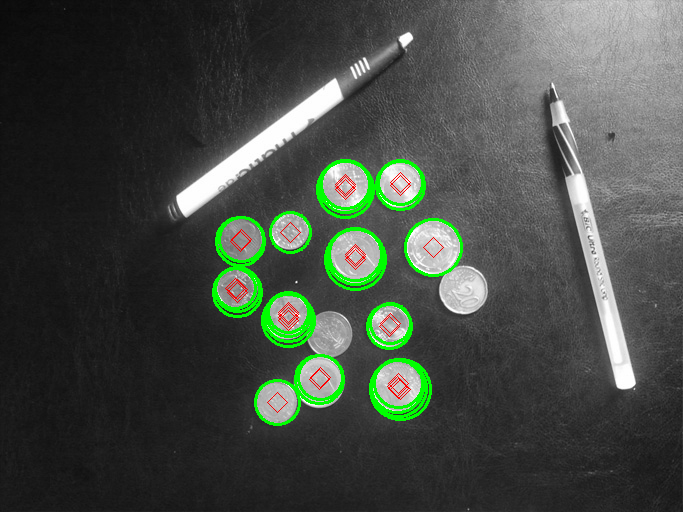
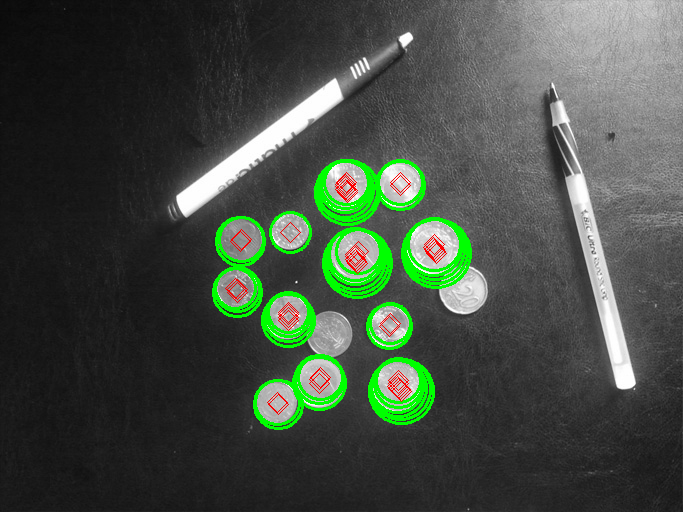
Hough circle transform

diff --git a/ps1_python/ps1.py b/ps1_python/ps1.py
@@ -18,14 +18,14 @@ if __name__ == '__main__':
     # Problem 1: Canny edge
     img_clean = cv2.GaussianBlur(img,(5,5),1)
     
-    img_sobelx = cv2.Sobel(img_clean,cv2.CV_64F,1,0,ksize=3)
-    img_sobely = cv2.Sobel(img_clean,cv2.CV_64F,0,1,ksize=3)
-    img_grad = cv2.Laplacian(img_clean,cv2.CV_64F)
-    img_dir = np.arctan2(img_sobely,img_sobelx)
+    # img_sobelx = cv2.Sobel(img_clean,cv2.CV_64F,1,0,ksize=3)
+    # img_sobely = cv2.Sobel(img_clean,cv2.CV_64F,0,1,ksize=3)
+    # img_grad = cv2.Laplacian(img_clean,cv2.CV_64F)
+    # img_dir = np.arctan2(img_sobely,img_sobelx)
     
-    plt.imshow(img_sobelx, cmap = 'gray', interpolation = 'bicubic')
-    plt.xticks([]), plt.yticks([])
-    plt.show()
+    # plt.imshow(img_sobelx, cmap = 'gray', interpolation = 'bicubic')
+    # plt.xticks([]), plt.yticks([])
+    # plt.show()
     
     img_edges = cv2.Canny(img, 100, 200)
     cv2.imwrite(os.path.join('output', 'ps1-1-a-1.png'), img_edges)
@@ -102,7 +102,7 @@ if __name__ == '__main__':
     cv2.imwrite(os.path.join('output', 'ps1-5-a-3.png'), H1)
     
     H2 = cv2.cvtColor(np.float32(img), cv2.COLOR_GRAY2RGB)
-    centers, radii = hough.find_circles(img_edges, np.arange(20,50,2))
+    centers, radii = hough.find_circles(img_edges, np.arange(20,35,2))
     for point, r in zip(centers, radii):
         x, y = point[0], point[1]
         cv2.drawMarker(H2, (int(y), int(x)), (0,0,255), cv2.MARKER_DIAMOND)
@@ -130,7 +130,7 @@ if __name__ == '__main__':
     img_edges = cv2.Canny(img_clean, 100, 200)
     
     H = cv2.cvtColor(np.float32(img), cv2.COLOR_GRAY2RGB)
-    centers, radii = hough.find_circles(img_edges, np.arange(20,30,2))
+    centers, radii = hough.find_circles(img_edges, np.arange(20,35,2))
     for point, r in zip(centers, radii):
         x, y = point[0], point[1]
         cv2.drawMarker(H, (int(y), int(x)), (0,0,255), cv2.MARKER_DIAMOND)
@@ -149,7 +149,7 @@ if __name__ == '__main__':
     filterPeaks = hough.filter_lines(peaks)
     
     H2 = cv2.cvtColor(np.float32(img), cv2.COLOR_GRAY2RGB)
-    centers, radii = hough.find_circles(img_edges, np.arange(20,24,2))
+    centers, radii = hough.find_circles(img_edges, np.arange(20,35,2))
     for point, r in zip(centers, radii):
         x, y = point[0], point[1]
         cv2.drawMarker(H2, (int(y), int(x)), (255,0,0), cv2.MARKER_DIAMOND)
